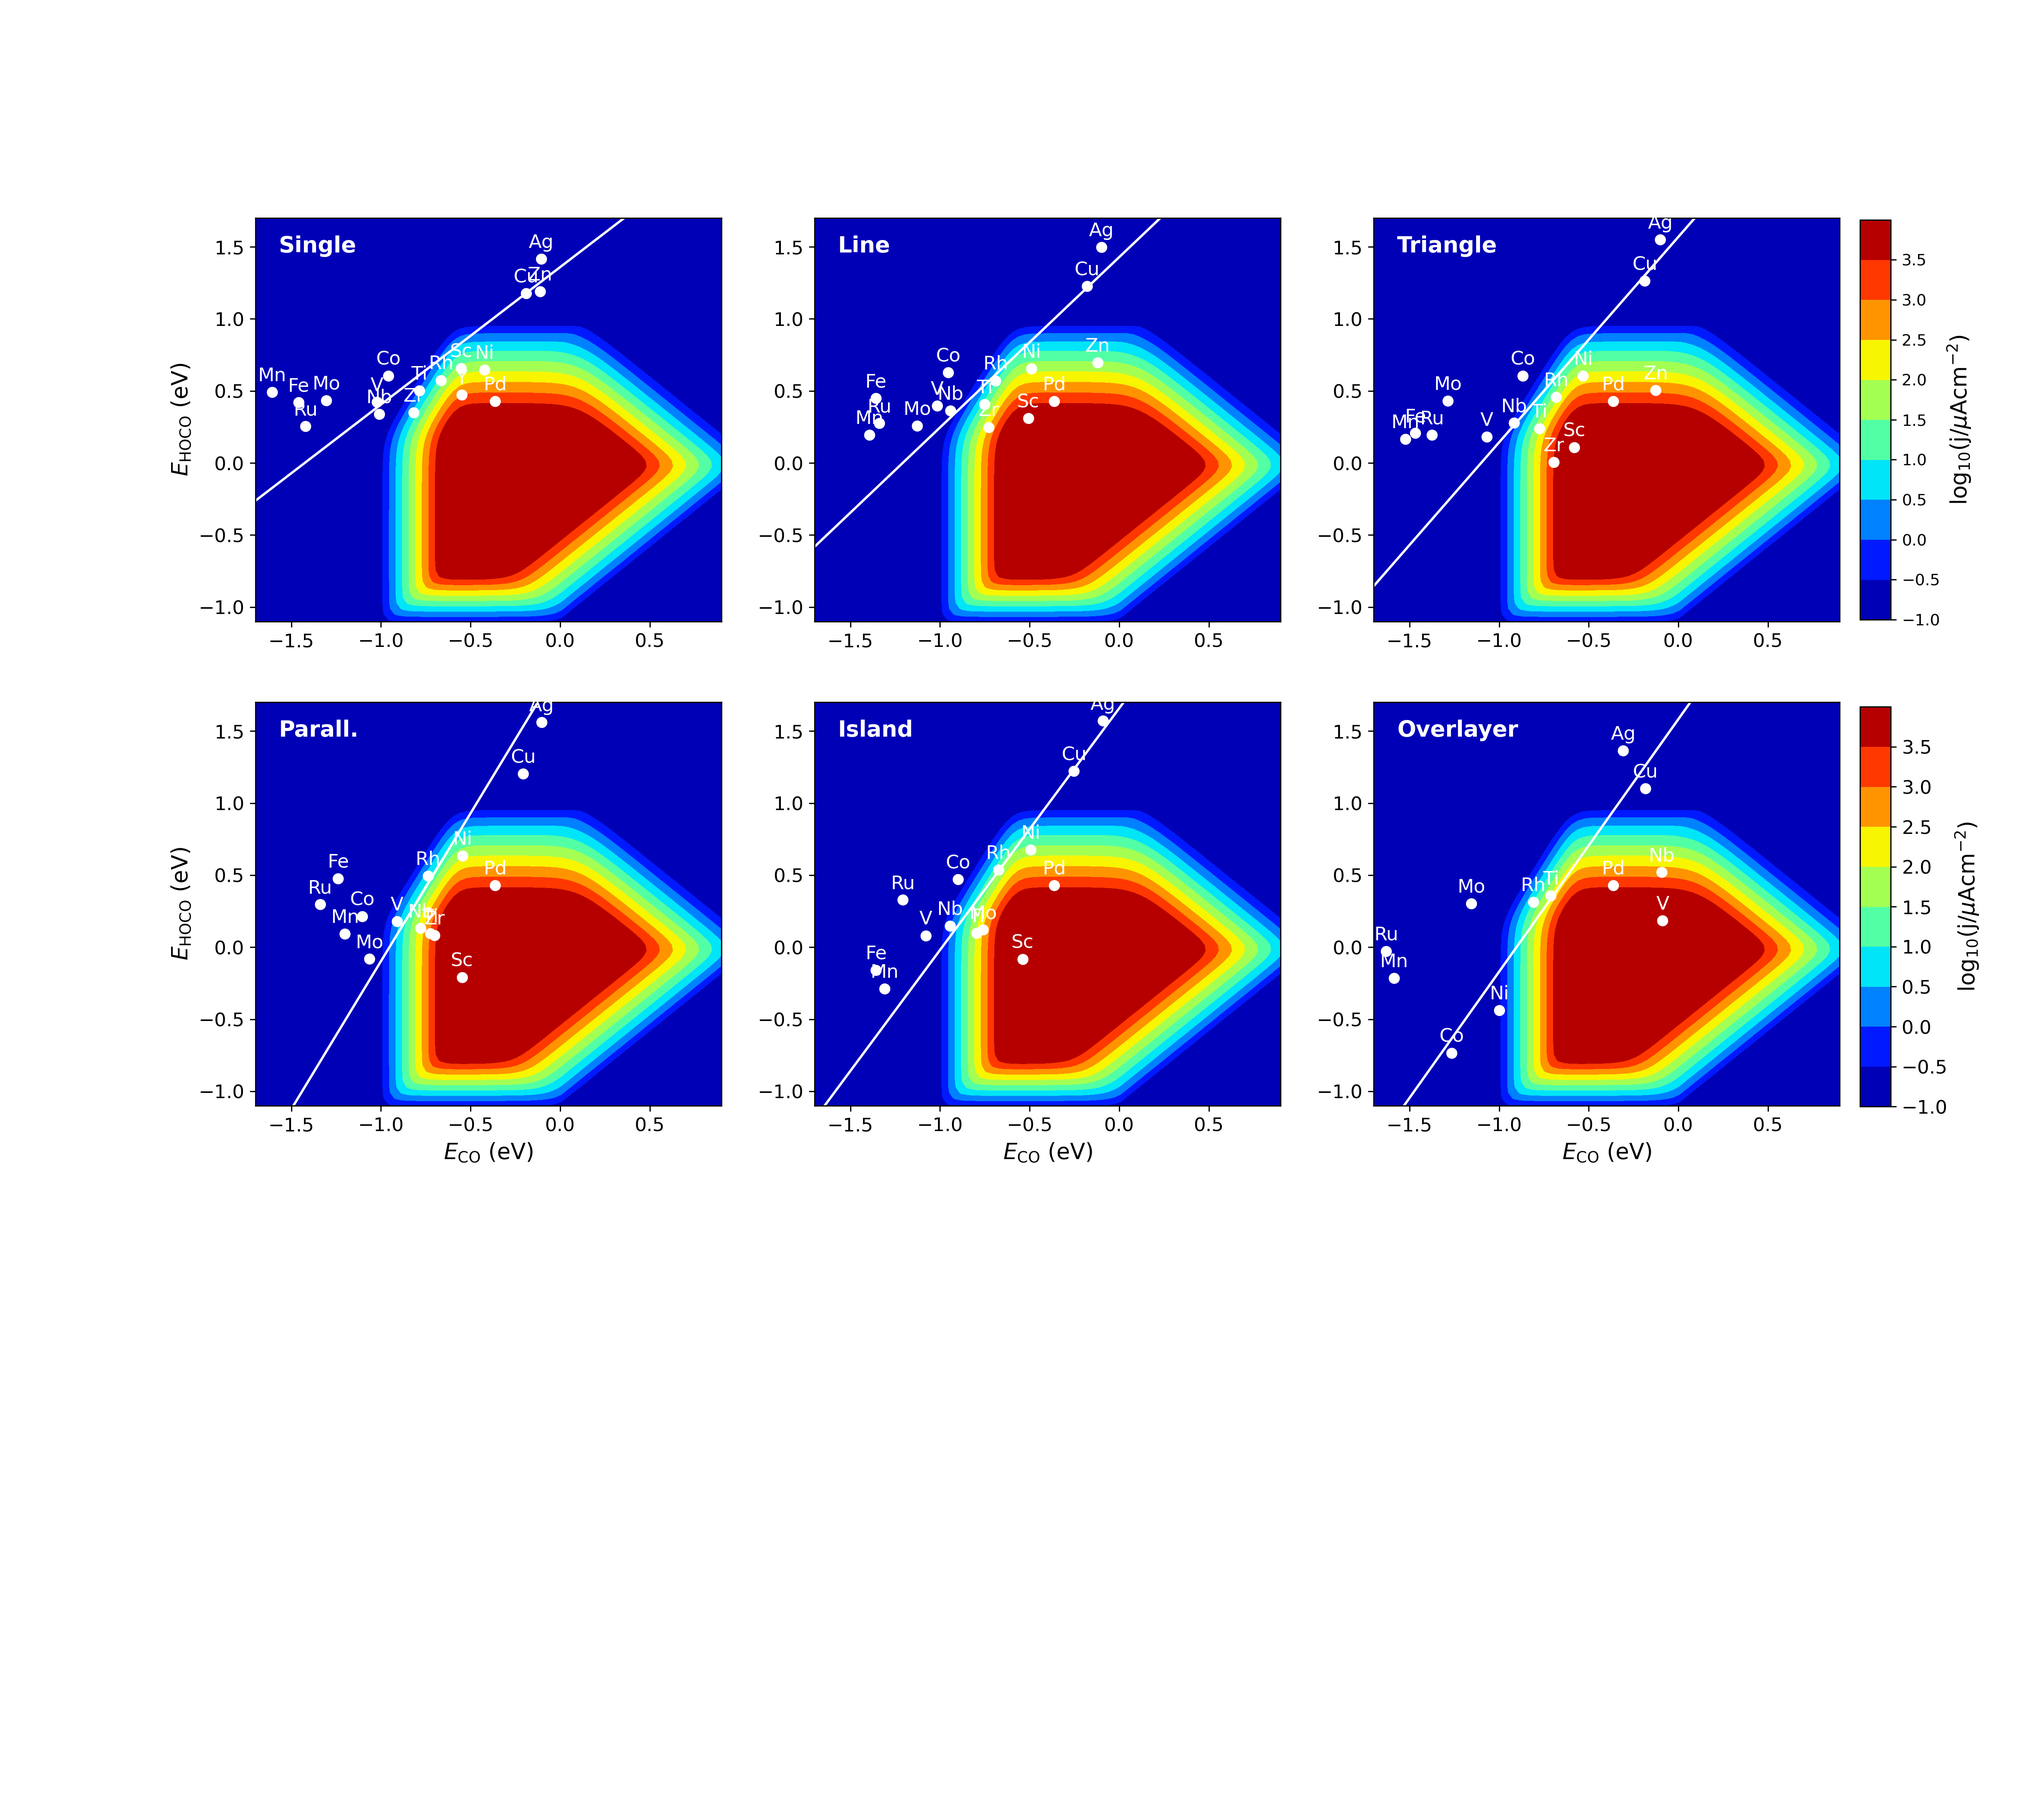
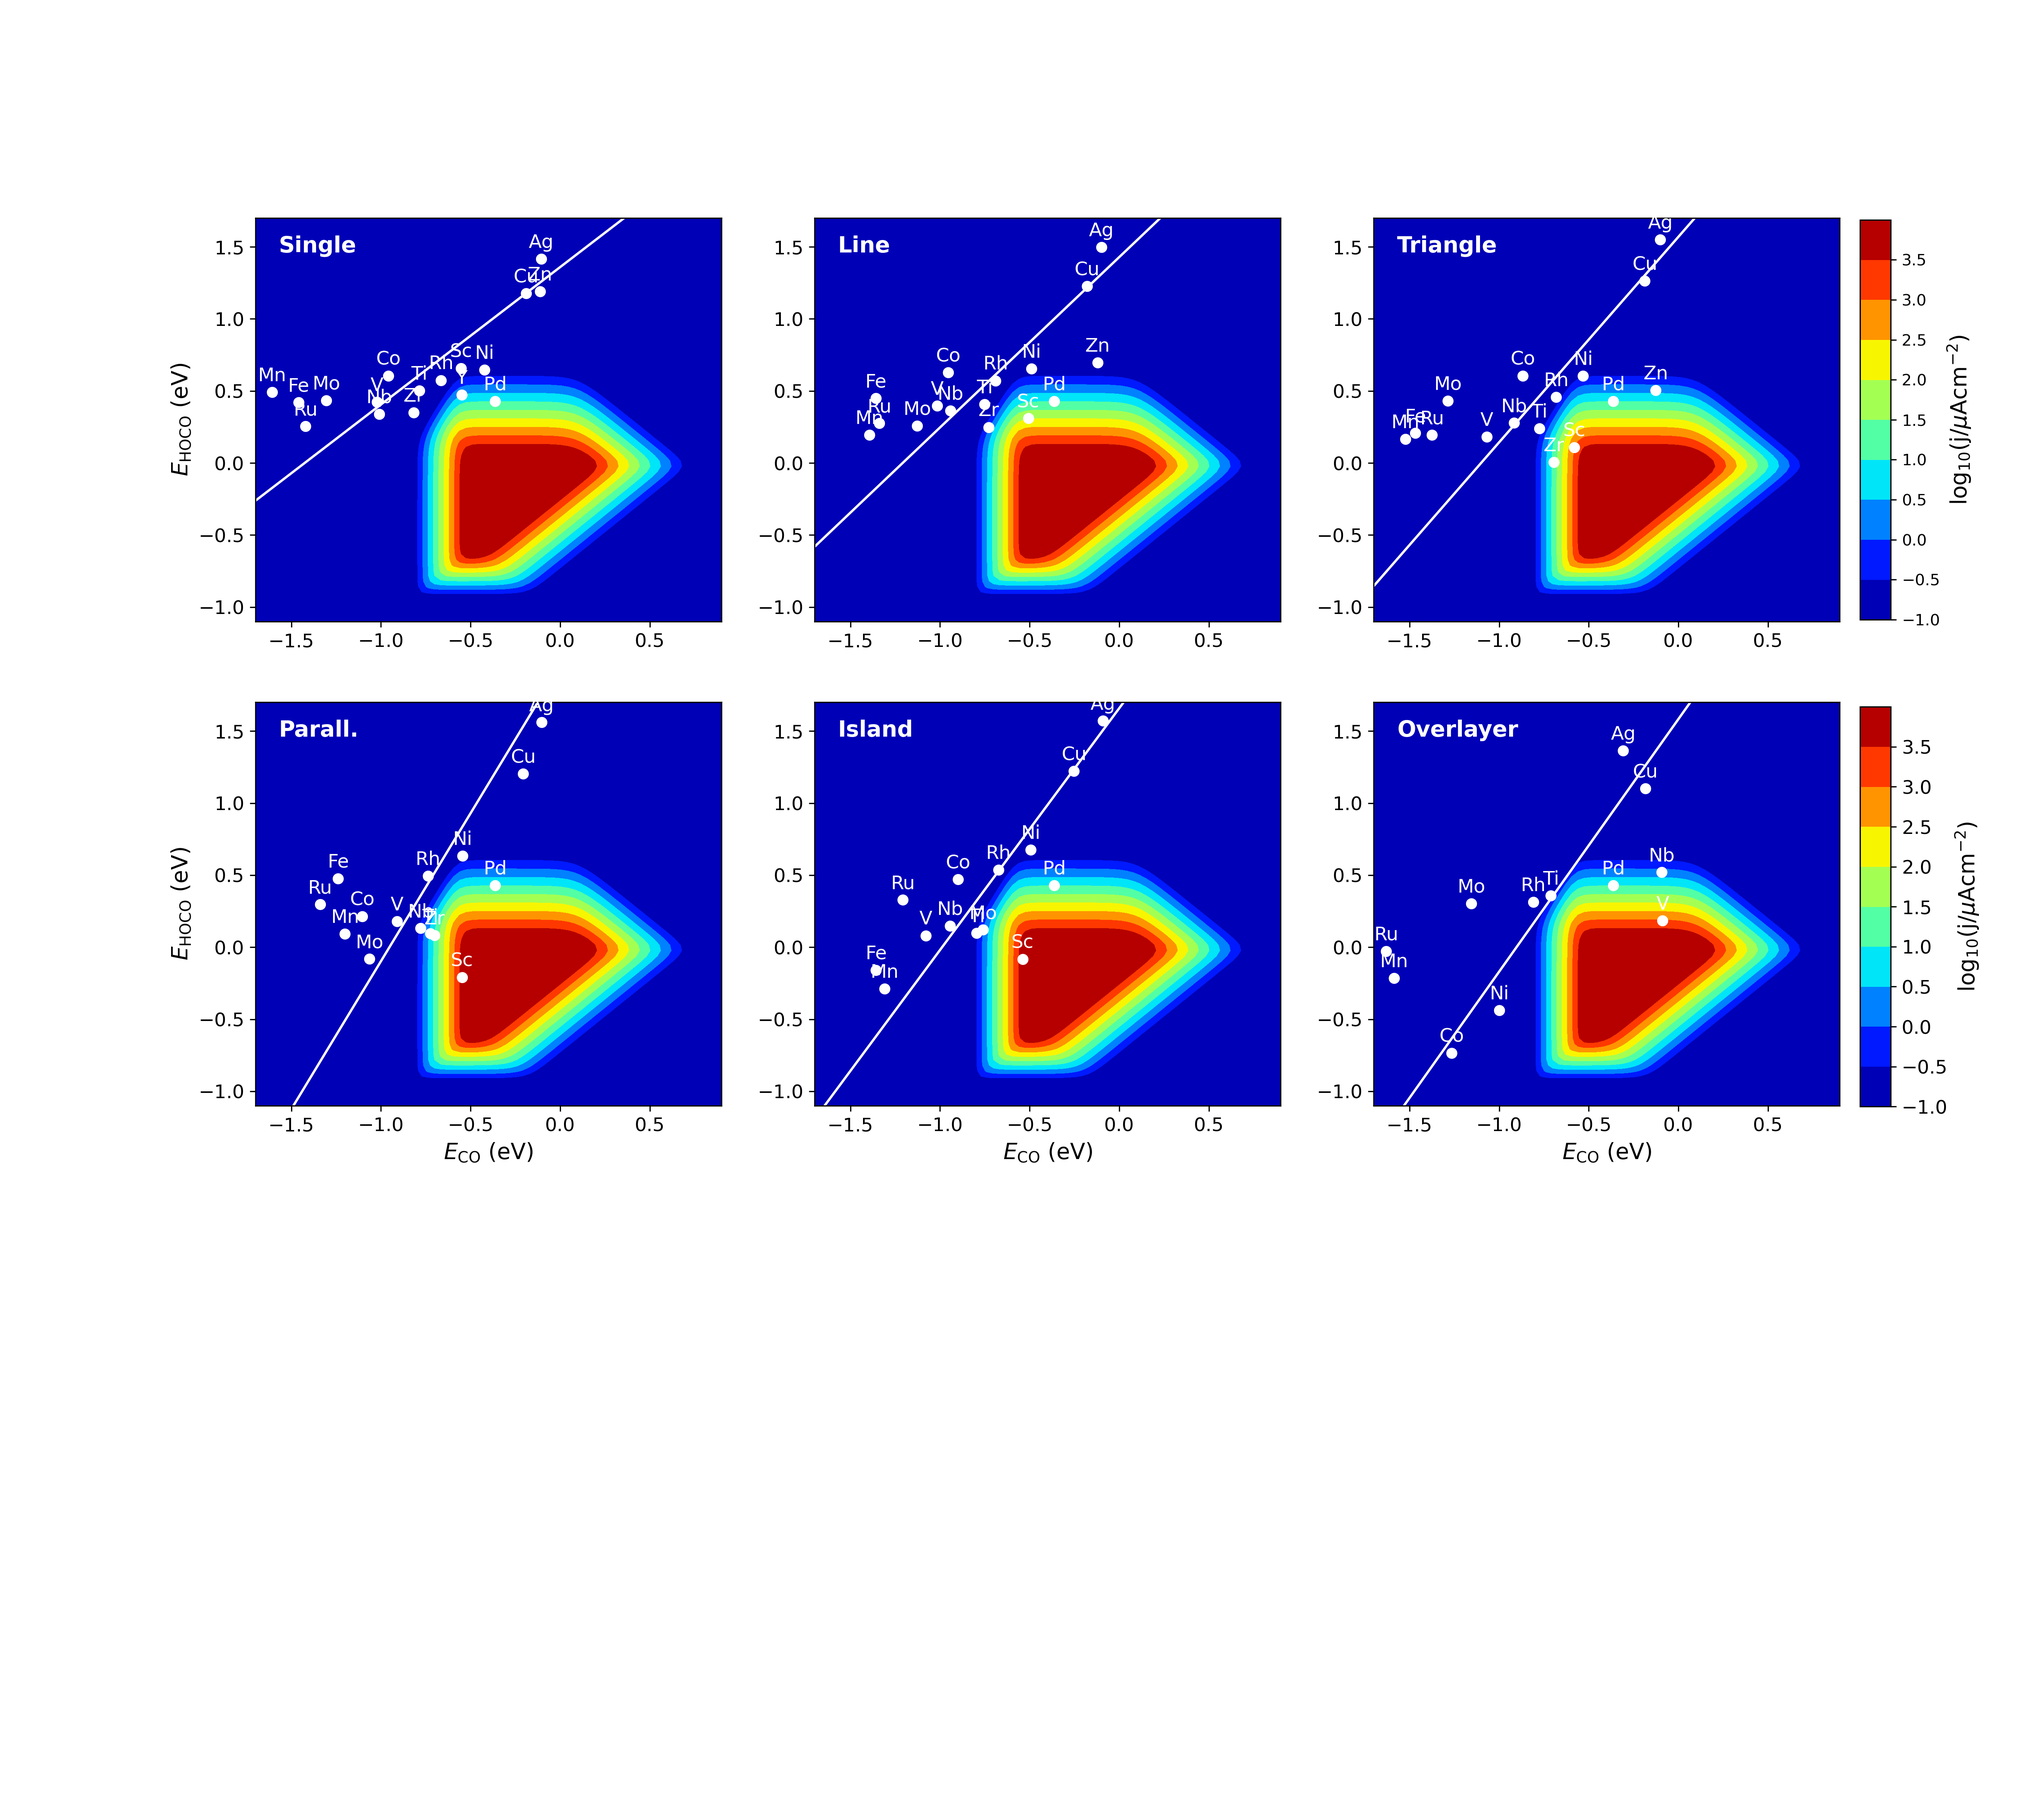
add 2d scaling

diff --git a/plotpackage/myproject/HOCO_2d_scaling.py b/plotpackage/myproject/HOCO_2d_scaling.py
@@ -1,0 +1,91 @@
+# -*- coding: utf-8 -*-
+"""
+Created on Fri Aug 20 16:03:03 2021
+
+@author: changai
+"""
+
+#import parent dirs for local
+import sys
+sys.path.append("../..")
+
+from plotpackage.lib.io import read_excel, read_csv
+from plotpackage.lib.CO2RR import CO2RRFEDplot
+from plotpackage.lib.scalingrelation import ScalingRelationPlot
+from plotpackage.lib.figsmetadata import FigsMetaData
+import matplotlib.pyplot as plt
+import numpy as np
+
+filename = '../data/binding_energy.xlsx'
+#change it for excel and csv; ignore sheet, min_row, max_row, row_of_tag and col_of_ini_tag for csv
+min_col = 1 #1st column in excel
+max_col = 5 #5th column in excel
+
+#change it only for excel
+# sheet = 'line-new' #Sheet1 by defaut
+# min_row = 20 #1st column in excel
+# max_row = 37 #9st column in excel
+min_row = 1 #1st column in excel
+max_row = 18 #9st column in excel
+
+############ plot free energy diagram ###############
+
+# types = sheet
+for types in ['top-new', 'line', 'triangle', 'paral-new', 'island-new', 'overly-new']:
+    sheet = types #Sheet1 by defaut
+    stepsNames, observationName, X = read_excel(filename, sheet, min_col, max_col, min_row, max_row) #load excel data
+    #stepsNames, observationName, X = read_csv(filename, , min_col, max_col) #load csv data
+    
+    
+    # #choose some rows
+    # # selected_ele = ['Sc', 'Ti', 'V', 'Mn', 'Zn', 'Y', 'Zr', 'Nb', 'Mo'] #select according to element names in excel
+    # selected_ele = ['Ti', 'Sc', 'Nb', 'Zr', 'Y', 'Zn', 'V', 'Mn', 'Mo', ] #select according to element names in excel
+    selected_ele = ['Ti', 'Sc', 'Nb', 'Zr', 'Y', 'Zn', 'V', 'Mn', 'Mo'] 
+    ranges = [observationName.index(each)+2 for each in selected_ele]
+    observationName = [observationName[i-2] for i in ranges]
+    selected_rows = [i-2 for i in ranges]
+    X = X[selected_rows,:]
+    
+    del_ele = []
+    if types == 'top-new':
+        del_ele = [] #remove distortion for near
+    elif types == 'line':
+        del_ele = ['Y', ] #remove distortion for line
+    elif types == 'triangle':
+        del_ele = ['Y',] #remove distortion for triangle
+    elif types == 'paral-new':
+        del_ele = ['Zn', 'Y',] #remove distortion for paral
+    elif types == 'island-new':
+        del_ele = ['Zn', 'Y', 'Zr'] #remove distortion for island
+    elif types == 'overly-new':
+        del_ele = ['Sc', 'Zn', 'Y', 'Zr'] #remove distortion for line
+    
+    # del_ele += ['Ti', 'Sc', 'Nb', 'Zr', 'Y', 'Zn', 'V', 'Mn', 'Mo', 'Pd'] #double bond and pure
+    # del_ele += ['Y', 'Cu', 'Zn', 'Ag']
+    del_rows = [observationName.index(each)+2 for each in del_ele]
+    ### del_rows = [10, 12, 13, 18]  #delete according to rows in excel
+    del_list = [x - 2 for x in del_rows]
+    observationName = np.delete(observationName, del_list, 0)
+    X = np.delete(X, del_list, 0)
+    
+    col1=2 # HOCO*
+    col2=3 # CO*
+    col3=5 # OH*
+    col1 = col1 - 2
+    col2 = col2 - 2
+    col3 = col3 - 2
+    descriper1 = (X[:, col1]).astype(float) 
+    descriper2 = (X[:, col2]).astype(float) 
+    descriper3 = (X[:, col3]).astype(float)
+    
+    A = np.vstack([descriper2, descriper3]).T
+    a, b = np.linalg.lstsq(A, descriper1, rcond=None)[0]
+    print(a, b)
+    
+    _ = plt.plot(observationName, descriper1, 'o', label='Original data', markersize=10)
+    _ = plt.plot(observationName, a*descriper2 + b*descriper3, 'r', label='Fitted line')
+    
+    # _ = plt.plot(descriper1, a*descriper2 + b*descriper3, 'o')1
+    _ = plt.legend()
+    plt.show()
+    

diff --git a/plotpackage/myproject/CO2RR_sacling_typesetting.py b/plotpackage/myproject/CO2RR_sacling_typesetting.py
@@ -67,6 +67,15 @@ for index in [0, 1, 4]:
         #     del_ele = ['Sc', 'Zn', 'Y', 'Zr'] #remove distortion for line
         # if types == 'near-new':
         #     del_ele = ['Fe', 'Ru', 'Zr', 'Y', 'Mn', 'Nb', 'Zn' ] #remove distortion for near
+        
+        # #choose some rows
+        # # selected_ele = ['Sc', 'Ti', 'V', 'Mn', 'Zn', 'Y', 'Zr', 'Nb', 'Mo'] #select according to element names in excel
+        # selected_ele = ['Ti', 'Sc', 'Nb', 'Zr', 'Y', 'Zn', 'V', 'Mn', 'Mo', ] #select according to element names in excel
+        # ranges = [observationName.index(each)+2 for each in selected_ele]
+        # observationName = [observationName[i-2] for i in ranges]
+        # selected_rows = [i-2 for i in ranges]
+        # X = X[selected_rows,:]
+        
         if types == 'top-new':
             del_ele = [] #remove distortion for near
         elif types == 'line':
@@ -79,12 +88,13 @@ for index in [0, 1, 4]:
             del_ele = ['Zn', 'Y', 'Zr'] #remove distortion for island
         elif types == 'overly-new':
             del_ele = ['Sc', 'Zn', 'Y', 'Zr'] #remove distortion for line
-        # del_ele += ['Cu', 'Ag']
+        del_ele += ['Ti', 'Sc', 'Nb', 'Zr', 'Y', 'Zn', 'V', 'Mn', 'Mo', 'Pd'] #double bond and pure
         del_rows = [observationName.index(each)+2 for each in del_ele]
-        ### del_rows = [10, 12, 13, 18]  #delete according to rows in excel
         del_list = [x - 2 for x in del_rows]
         observationName = np.delete(observationName, del_list, 0)
         X = np.delete(X, del_list, 0)
+        
+        
         
         M  = 3
         ax = plt.subplot(3, 3, i + 1)

diff --git a/plotpackage/myproject/CO2RR_TOF_2D_multi.py b/plotpackage/myproject/CO2RR_TOF_2D_multi.py
@@ -27,7 +27,8 @@ G_COg = -12.564 # eV
 
 kB = 8.617e-5 # Boltzmann constant in eV/K
 hplanck = 4.135669e-15 # eV s
-T0 = 370
+T0 = 297.15
+# T0 = 370
 Gact0 = Gact1 = Gact2 = 0.475 # activative free energy
 tc0 = tc1 = tc2 = 0.5  #???
 A_act1 = np.exp( - Gact1 / ( kB * T0 ) ) # 
